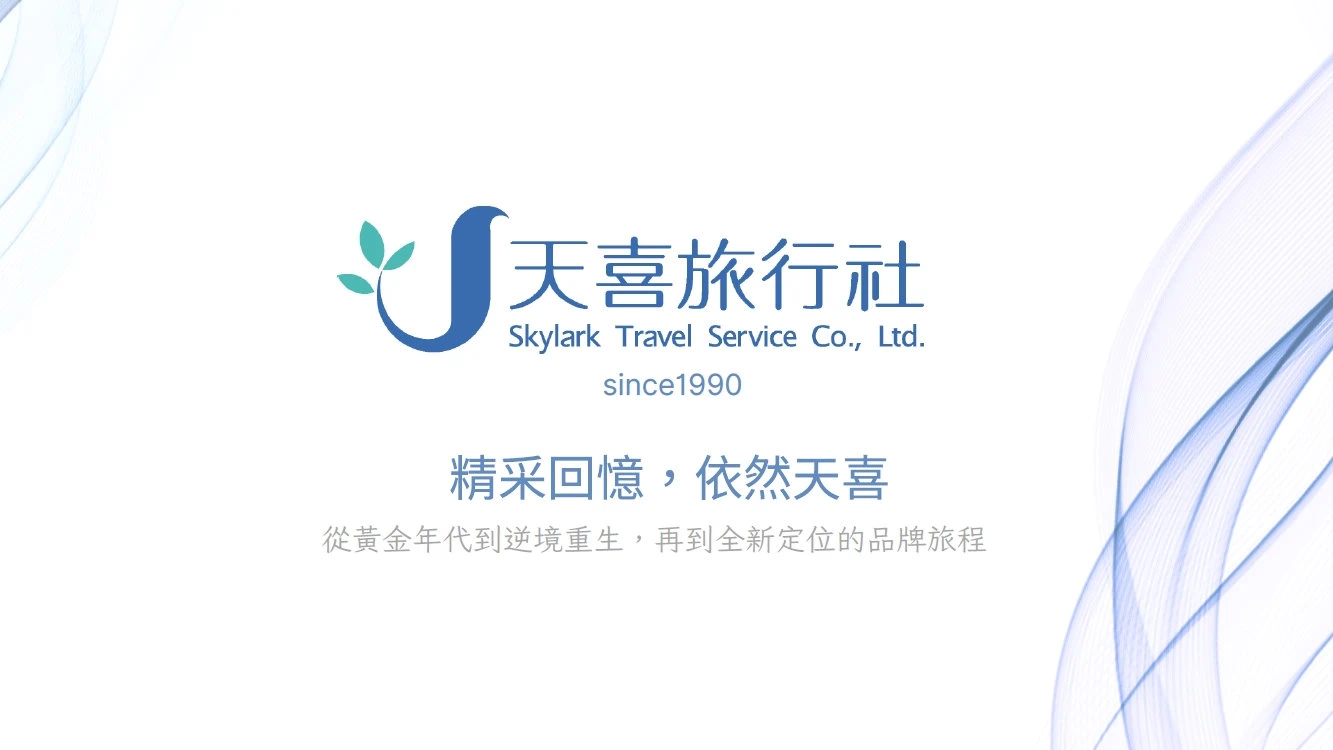
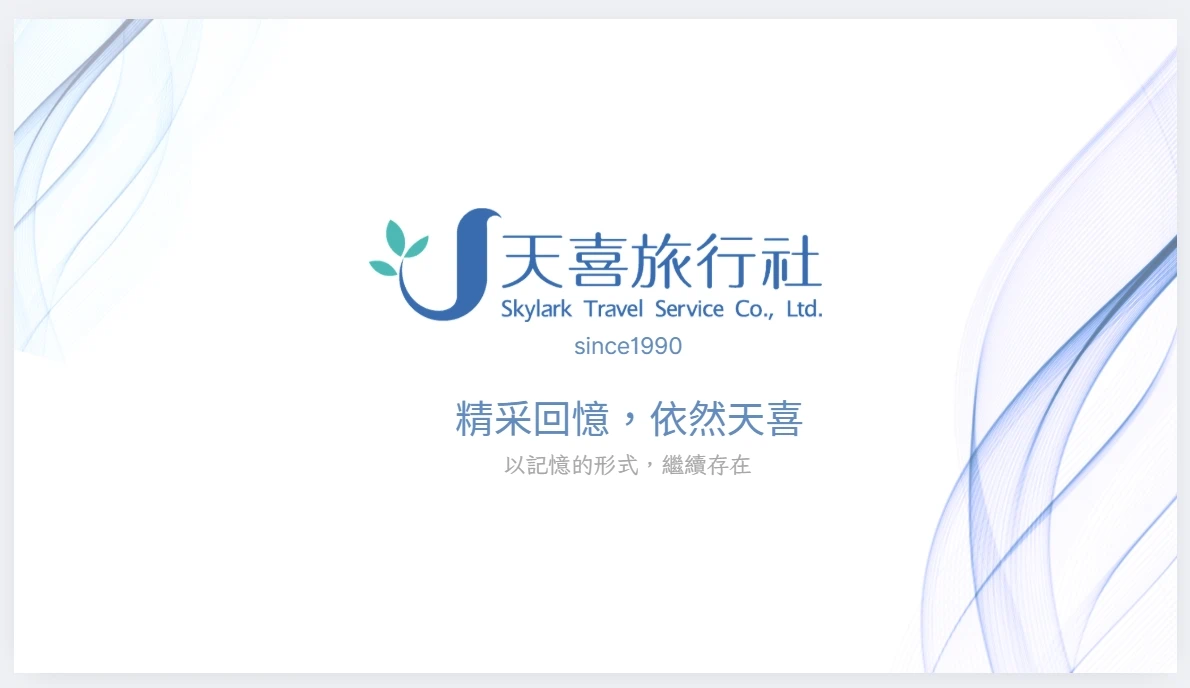
fix 25/12/24

diff --git a/history.html b/history.html
@@ -138,6 +138,55 @@
         </div>
       </div>
     </header>
+        
+    <!-- 新增：郭正利先生的早年（1990 之前） -->
+    <section id="history-pre1990" class="section-padding position-relative" style="background: linear-gradient(to bottom, #ffffff, var(--skylark-bg)); padding-top: 80px; padding-bottom: 80px;">
+        
+        <!-- 背景裝飾：極淡的浮水印或紋理（可選） -->
+        <div style="position: absolute; top: 10%; left: 5%; opacity: 0.03; font-size: 8rem; font-family: var(--font-heading); pointer-events: none; user-select: none;">
+            1990
+        </div>
+
+        <div class="container">
+            <div class="row justify-content-center">
+                <div class="col-lg-8 fade-in-text">
+                    
+                    <!-- 章節標籤 -->
+                    <div class="text-center mb-4">
+                        <span class="d-inline-block py-1 px-3 small text-muted" style="letter-spacing: 0.2em; border-bottom: 1px solid var(--skylark-gold); font-family: var(--font-heading);">
+                            前言
+                        </span>
+                    </div>
+
+                    <!-- 標題 -->
+                    <h3 class="text-center mb-5" style="font-family: var(--font-heading); color: var(--skylark-dark-blue); letter-spacing: 0.1em; font-size: 1.8rem;">
+                        在天喜之前<br>
+                        <span style="font-size: 0.6em; opacity: 0.6; font-weight: normal;">（1990 以前）</span>
+                    </h3>
+
+                    <!-- 內文：詩意排版 -->
+                    <div class="mx-auto" style="max-width: 600px;">
+                        <div class="body-text" style="font-family: var(--font-heading); font-size: 1.1rem; line-height: 2.2; color: #555;">
+                            <p class="mb-5">
+                                郭正利先生從門房小弟做起。<br>
+                                記人、帶路、跑腿，<br>
+                                也學會了在最不起眼的位置，看見人如何被對待。
+                            </p>
+
+                            <p class="mb-0">
+                                在那樣的日子裡，<br>
+                                <span style="color: var(--skylark-blue); font-weight: 500;">「記得名字」</span>慢慢成為一種本能。<br>
+                                所以後來的服務，<br>
+                                不是開會想出來的，<br>
+                                而是在長年照顧人之中，慢慢形成的。
+                            </p>
+                        </div>
+                    </div>
+
+                </div>
+            </div>
+        </div>
+    </section>
 
     <!-- 壹｜黃金年代 -->
     <section class="section-padding" style="background: var(--skylark-bg);">
@@ -314,7 +363,7 @@
     <section class="section-padding" style="background: #f4f4f4;">
         <div class="container">
             <div class="text-center">
-                <h2 class="era-title" style="color: #555;">泥濘中的優雅 (2015-2016)<br><small class="text-muted fs-5 fw-normal">當西裝沾上油煙</small></h2>
+                <h2 class="era-title" style="color: #555;">泥濘中的優雅 (2015-2016)<br><small class="text-muted fs-5 fw-normal">當一切簡化到本質</small></h2>
             </div>
 
             <div class="row justify-content-center">
@@ -330,7 +379,7 @@
                                     <img src="assets/images/history/2015-mayouji.webp" alt="郭正利先生在迪化街賣麻油雞的身影" loading="lazy">
                                 </div>
                                 <p class="body-text">
-                                    他依然穿著筆挺的西裝，彎著腰，用雙手端湯。有人問他覺得丟臉嗎？他說：
+                                    他依然帶著對細節的堅持，彎著腰用雙手端湯。有人問他覺得丟臉嗎？他說：
                                 </p>
                                 <blockquote class="quote-block my-3">「丟臉的不是賣麻油雞，而是忘記怎麼彎腰。」</blockquote>
                                 <p class="body-text">
@@ -382,29 +431,73 @@
                             <h4 class="mt-2 mb-3">沉澱與保存</h4>
                             <div class="timeline-card">
                                 <p class="body-text">
-                                    天喜商標被保留。疫情期間，前職員自發整理語錄與案例，將「天喜式服務」的DNA保存下來。
+                                    天喜商標依法保留（第 39 類）。疫情期間，天喜暫時只存在於各自的記憶裡。
                                 </p>
                             </div>
                         </div>
 
                         <div class="mb-5 fade-in-text">
                             <div class="timeline-year" style="color: var(--skylark-green);">2025</div>
-                            <h4 class="mt-2 mb-3">品牌重生</h4>
+                            <h4 class="mt-2 mb-3">時間走到這裡</h4>
                             <div class="timeline-card" style="border-top: 4px solid var(--skylark-green);">
-                                <!-- 插入照片：達摩 -->
+                                <!-- 插入照片 -->
                                 <div class="history-img-container">
                                     <img src="assets/images/history/2025-daruma.webp" alt="天喜以全新姿態重生" loading="lazy">
                                 </div>
-                                <p class="body-text">
-                                    天喜以全新姿態重生。我們不再只是一間旅行社，而是<strong>「生活體驗的策展者」</strong>。
-                                </p>
-                                <ul class="body-text text-muted small">
-                                    <li>從「日本團」到「文化深度旅行」</li>
-                                    <li>從「觀光景點」到「人與人的連結」</li>
-                                    <li>從「價格競爭」到「價值堅持」</li>
-                                </ul>
-                                <div class="text-center mt-3 fw-bold text-primary">
-                                    但有一件事，從未改變：「讓每個客人，都被記得。」
+                            <!-- 2025 重生與沉澱區塊 -->
+                                <div class="rebirth-poetic-section text-center py-4 px-3" style="max-width: 720px; margin: 0 auto;">
+                                    
+                                    <!-- 第一節：時間與轉身 -->
+                                    <div class="mb-5 fade-in-text">
+                                        <p class="fs-5" style="font-family: var(--font-heading); line-height: 2.4; color: var(--skylark-dark-blue);">
+                                            到了 2025 年，<br>
+                                            天喜選擇放慢腳步，重新整理自己走過的痕跡。
+                                        </p>
+                                    </div>
+
+                                    <!-- 視覺呼吸：金色流動線 -->
+                                    <div class="d-flex justify-content-center mb-5 fade-in-text delay-1">
+                                        <div style="width: 1px; height: 50px; background: linear-gradient(to bottom, transparent, var(--skylark-gold), transparent); opacity: 0.7;"></div>
+                                    </div>
+
+                                    <!-- 第二節：價值與定義 -->
+                                    <div class="mb-5 fade-in-text delay-1">
+                                        <p class="text-muted" style="font-family: var(--font-heading); font-size: 1.05rem; line-height: 2.2;">
+                                            在停下、保存與回望之後，<br>
+                                            這個名字被再次放回原點，<br>
+                                            不是為了定義未來，<br>
+                                            而是確認：<span style="color: var(--skylark-text); border-bottom: 1px dotted var(--skylark-gold);">哪些價值，仍然值得被留下。</span>
+                                        </p>
+                                    </div>
+
+                                    <!-- 第三節：旅行的本質 -->
+                                    <div class="mb-5 fade-in-text delay-2">
+                                        <p class="text-muted mb-4" style="font-family: var(--font-heading); font-size: 1rem; line-height: 2.2;">
+                                            於是，旅行的形式開始出現變化。<br>
+                                            不再只著眼於把一段旅程完成，<br>
+                                            而是把更多心力，放在文化的深度，<br>
+                                            以及人與人之間真正產生連結的時刻。
+                                        </p>
+                                        <p class="text-muted" style="font-family: var(--font-heading); font-size: 1rem; line-height: 2.2;">
+                                            價格從來不是天喜用來定義自己的方式。<br>
+                                            時間、信任與被交付的關係，<br>
+                                            始終才是衡量一段旅程的核心。
+                                        </p>
+                                    </div>
+
+                                    <!-- 結語：核心承諾 -->
+                                    <div class="mt-5 fade-in-text delay-2 position-relative">
+                                        <!-- 背景裝飾：微弱的光暈 -->
+                                        <div style="position: absolute; top: 50%; left: 50%; transform: translate(-50%, -50%); width: 180px; height: 180px; background: radial-gradient(circle, rgba(197, 160, 101, 0.08) 0%, transparent 70%); pointer-events: none;"></div>
+                                        
+                                        <p class="small text-muted mb-3" style="letter-spacing: 0.15em;">
+                                            在許多事情逐漸調整的同時，有一件事始終沒有改變
+                                        </p>
+                                        <h4 class="fw-bold" style="color: var(--skylark-blue); font-family: var(--font-heading); letter-spacing: 0.15em; font-size: 1.5rem;">
+                                            讓每一個人，都被記得。
+                                        </h4>
+                                    </div>
+
                                 </div>
                             </div>
                         </div>

diff --git a/origin.html b/origin.html
@@ -160,7 +160,73 @@
         </div>
       </div>
     </section>
+<!-- 新增：把旅行交還給生活（短行程說明） -->
+<section id="origin-shorttrip" class="section-padding position-relative" style="background: #fff;">
+    <!-- 背景裝飾：極淡的文字浮水印（可選） -->
+    <div style="position: absolute; right: 5%; top: 10%; opacity: 0.03; font-size: 8rem; font-family: var(--font-heading); line-height: 1; pointer-events: none; user-select: none;">
+       天喜
+    </div>
+    <div class="container">
+        <div class="row justify-content-center">
+            <div class="col-lg-10 fade-in-text">
+                
+                <!-- 標題區 -->
+                <div class="text-center mb-5">
+                    <p class="chapter-tag">新風潮</p>
+                    <h3 class="manifesto-title mb-3">把旅行，交還給生活</h3>
+                    <p class="manifesto-lead text-muted">把日本從「長假」變成「日常可出發」的選項。</p>
+                </div>
 
+                <!-- 內文區：中軸線排版 -->
+                <div class="mx-auto" style="max-width: 720px;">
+                    
+                    <!-- 第一段：過去的門檻 -->
+                    <div class="mb-5 text-center">
+                        <p class="body-text text-muted" style="line-height: 2;">
+                            那個年代，去日本常是 7 天、8 天的長行程。<br>
+                            要請長假、要存一筆錢，<br>
+                            旅遊對很多人來說，是一道門檻。
+                        </p>
+                    </div>
+
+                    <!-- 視覺轉折：金色分隔線 -->
+                    <div class="text-center mb-5">
+                        <span style="display: inline-block; width: 1px; height: 40px; background: var(--skylark-gold); opacity: 0.5;"></span>
+                    </div>
+
+                    <!-- 第二段：天喜的決定（核心改變） -->
+                    <div class="mb-5 text-center">
+                        <p class="body-text mb-4" style="font-size: 1.1rem; font-weight: 500; color: var(--skylark-dark-blue);">
+                            天喜做了一個看似簡單、卻很少人敢做的決定：<br>
+                            <span style="border-bottom: 1px solid var(--skylark-blue); padding-bottom: 2px;">把日本團重新設計。</span>
+                        </p>
+                        <p class="body-text" style="line-height: 2.2;">
+                            從 <span class="text-muted" style="text-decoration: line-through; opacity: 0.6;">7、8 天</span>，走向更精準的 <span style="color: var(--skylark-blue); font-size: 1.3em; font-weight: 600; font-family: var(--font-heading);">4 天、5 天</span>。<br>
+                            把不必要的拉車拿掉，<br>
+                            把真正重要的體驗留下。<br>
+                            讓上班族也能出國，<br>
+                            讓第一次出國的人，敢踏出那一步。
+                        </p>
+                    </div>
+
+                    <!-- 第三段：意義昇華（底色區塊） -->
+                    <div class="p-4 text-center position-relative mt-5" style="background: rgba(197, 160, 101, 0.06); border-radius: 4px;">
+                        <!-- 裝飾引號 -->
+                        <i class="fas fa-quote-left position-absolute" style="top: 15px; left: 20px; color: var(--skylark-gold); opacity: 0.3; font-size: 1.2rem;"></i>
+                        
+                        <p class="body-text mb-0" style="font-family: var(--font-heading); font-size: 1.05rem; line-height: 2; color: #444;">
+                            這不只是「少玩幾天」。<br>
+                            而是一次旅遊邏輯的翻轉 ——<br>
+                            日本，從遙遠的國外，<br>
+                            變成一個可以輕鬆出發的選擇。
+                        </p>
+                    </div>
+
+                </div>
+            </div>
+        </div>
+    </div>
+</section>
     <!-- ==========================================
          貳｜服務哲學：細節的四個層次
          ========================================== -->
@@ -267,12 +333,12 @@
     <!-- ==========================================
          圖案照片區
          ========================================== -->
-    <section class="section-padding origin-gallery-section">
+    <section class="section-padding origin-gallery-section" style="background: #fff;">
       <div class="container">
         <div class="row justify-content-center">
           <div class="col-lg-9">
             <div class="text-center fade-in-text">
-              <p class="chapter-tag">【圖】那些年，天喜的樣子</p>
+              <p class="chapter-tag">那些年，天喜的樣子</p>
               <h2 class="manifesto-title">有些畫面，是品牌最真實的註腳。</h2>
               <span class="breathing-line"></span>
             </div>
@@ -304,6 +370,7 @@
     <!-- ==========================================
          參｜價格的真相
          ========================================== -->
+
     <section id="origin-3" class="section-padding position-relative manifesto-section">
       <div class="container">
         <div class="row justify-content-center">
@@ -344,20 +411,15 @@
                     <thead style="background-color: var(--skylark-dark-blue); color: #fff;">
                       <tr>
                         <th scope="col" class="py-3">項目</th>
-                        <th scope="col" class="py-3">市場行情</th>
-                        <th scope="col" class="py-3" style="background-color: var(--skylark-blue);">天喜標準</th>
+                        <th scope="col" class="py-3">市場主流</th>
+                        <th scope="col" class="py-3" style="color: #fff;background-color: var(--skylark-blue);">天喜標準</th>
                       </tr>
                     </thead>
                     <tbody>
                       <tr>
                         <td class="fw-bold text-muted">團費（1990年代）</td>
-                        <td>約4,000元</td>
-                        <td class="fw-bold text-primary">8,000元以上（貴一倍）</td>
-                      </tr>
-                      <tr>
-                        <td class="fw-bold text-muted">團費（2000年代頂級行程）</td>
-                        <td>一般行程</td>
-                        <td class="fw-bold text-primary">比業界多出1萬元以上</td>
+                        <td>約 3–4 萬元／人（7–8 天）</td>
+                        <td class="fw-bold text-primary">約 4 萬元上下／人（4–5 天）</td>
                       </tr>
                       <tr>
                         <td class="fw-bold text-muted">住宿</td>
@@ -367,22 +429,21 @@
                       <tr>
                         <td class="fw-bold text-muted">交通</td>
                         <td>租用公車</td>
-                        <td class="fw-bold text-primary">自購專屬遊覽車（2007年達20台）</td>
+                        <td class="fw-bold text-primary">自購專屬遊覽車</td>
                       </tr>
                       <tr>
                         <td class="fw-bold text-muted">服務品質</td>
                         <td>標準團體服務</td>
-                        <td class="fw-bold text-primary">小團制，記住每位客人的名字與需求</td>
+                        <td class="fw-bold text-primary">投入超出常規的服務心力，逐一理解每位貴賓的需求</td>
                       </tr>
                     </tbody>
                   </table>
                 </div>
                 <div class="text-center mt-3 text-muted small">
-                  「您付的不只是團費，是對『被尊重』的投資。」
+                  「從 1990 年代開始，天喜就選擇不走最低價。您付的不只是團費，是對「被尊重」的投資。」
                 </div>
               </div>
             </div>
-
           </div>
         </div>
       </div>

diff --git a/index.html b/index.html
@@ -259,12 +259,12 @@
                         
                         <!-- 最左側：品牌旅程 -->
                         <div class="vertical-text hero-desc text-muted ms-3">
-                            再到全新定位的品牌旅程
+                            到仍在延續的價值。
                         </div>
 
                         <!-- 中間：重生敘事 -->
                         <div class="vertical-text hero-desc text-muted ms-3">
-                            從黃金年代到逆境重生
+                            從走過的年代,
                         </div>
                         
                         <!-- 裝飾線與年份 -->
